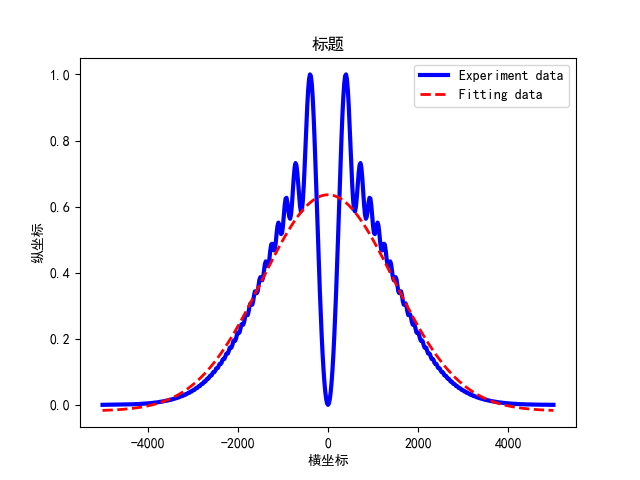
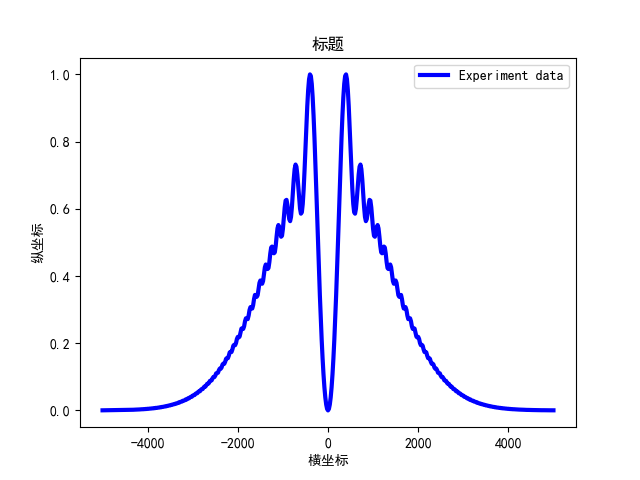
增加两种拟合或者不拟合的图像

diff --git a/fitting.py b/fitting.py
@@ -39,8 +39,9 @@ pl.xlabel(u"横坐标")
 pl.ylabel(u"纵坐标")
 # 绘图 标签 颜色：color='red'
 pl.plot(x, y, 'b', label='Experiment data', linewidth=3)
-pl.plot(x, y2, 'r--',label='Fitting data', linewidth=2)
+#pl.plot(x, y2, 'r--',label='Fitting data', linewidth=2)
 pl.legend()
 # 保存图像
+#pl.savefig(file_name + "_fit.png")
 pl.savefig(file_name + ".png")
 pl.show()
